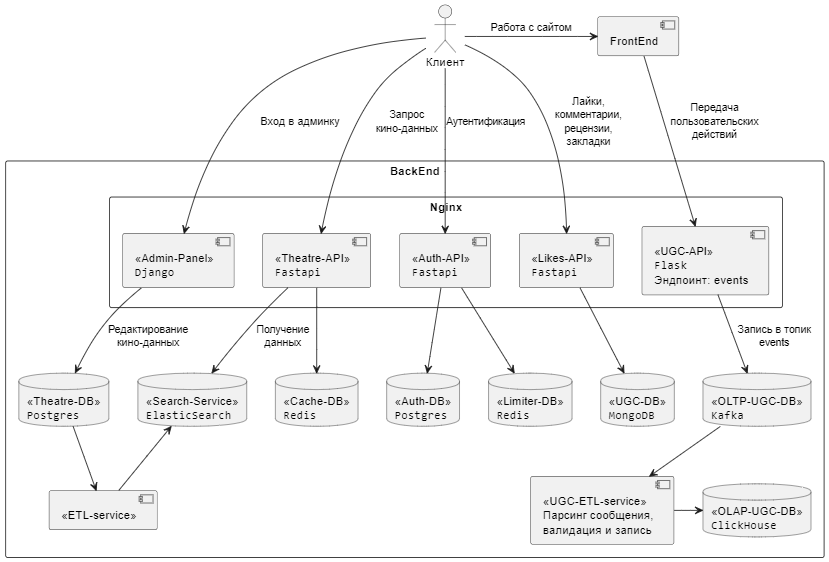
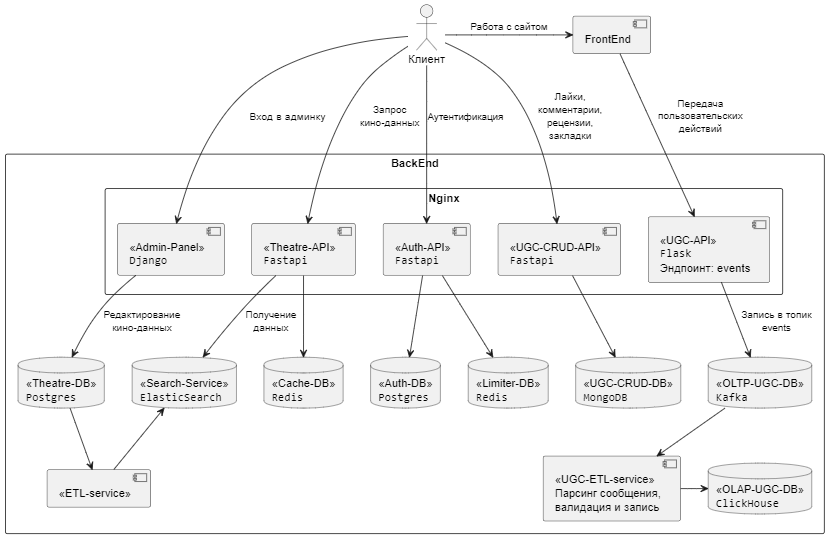
minor

diff --git a/README.md b/README.md
@@ -6,7 +6,7 @@
 
 [Описание сервиса ugc_service](./ugc_service/README.md)
 
-[Cистемные требования](./SYS-REQUIREMENTS.md)
+[Описание сервиса ugc_crud_service](./ugc_crud_service/README.md)
 
 [Схема UGC таблиц](./clickhouse_tables.md)
 
